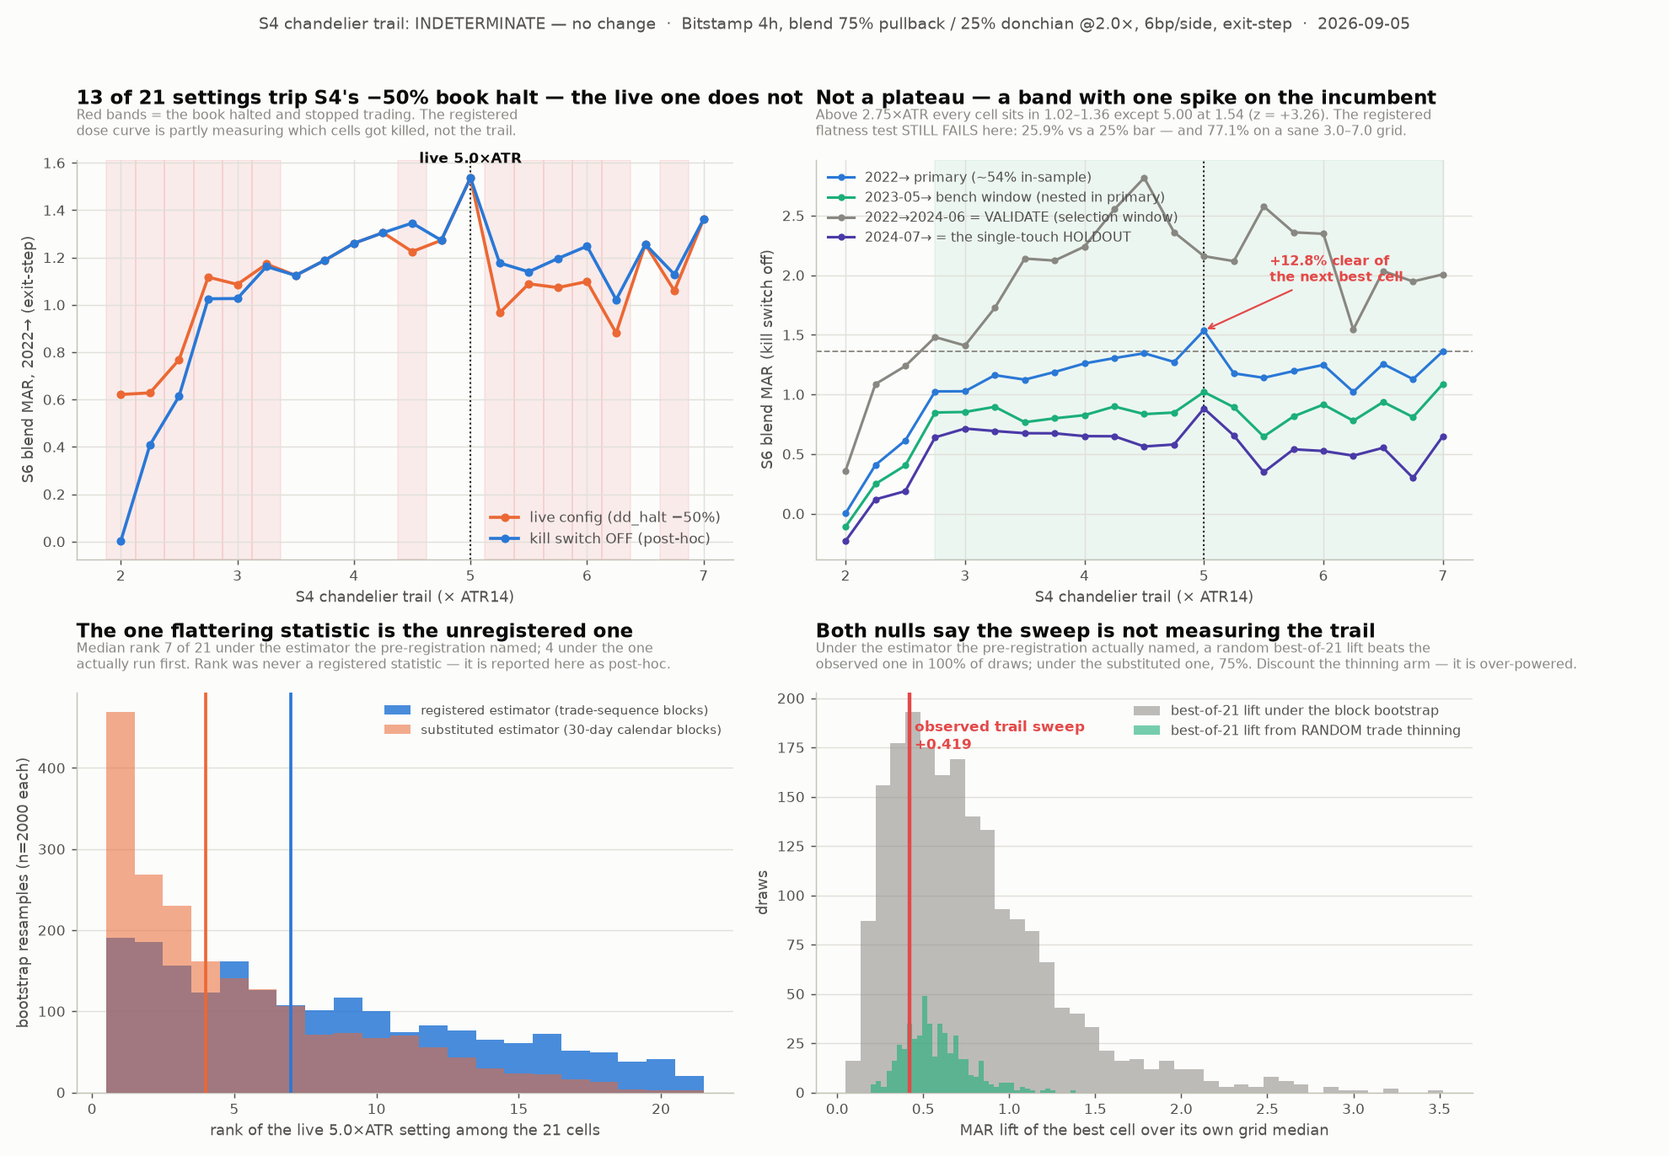
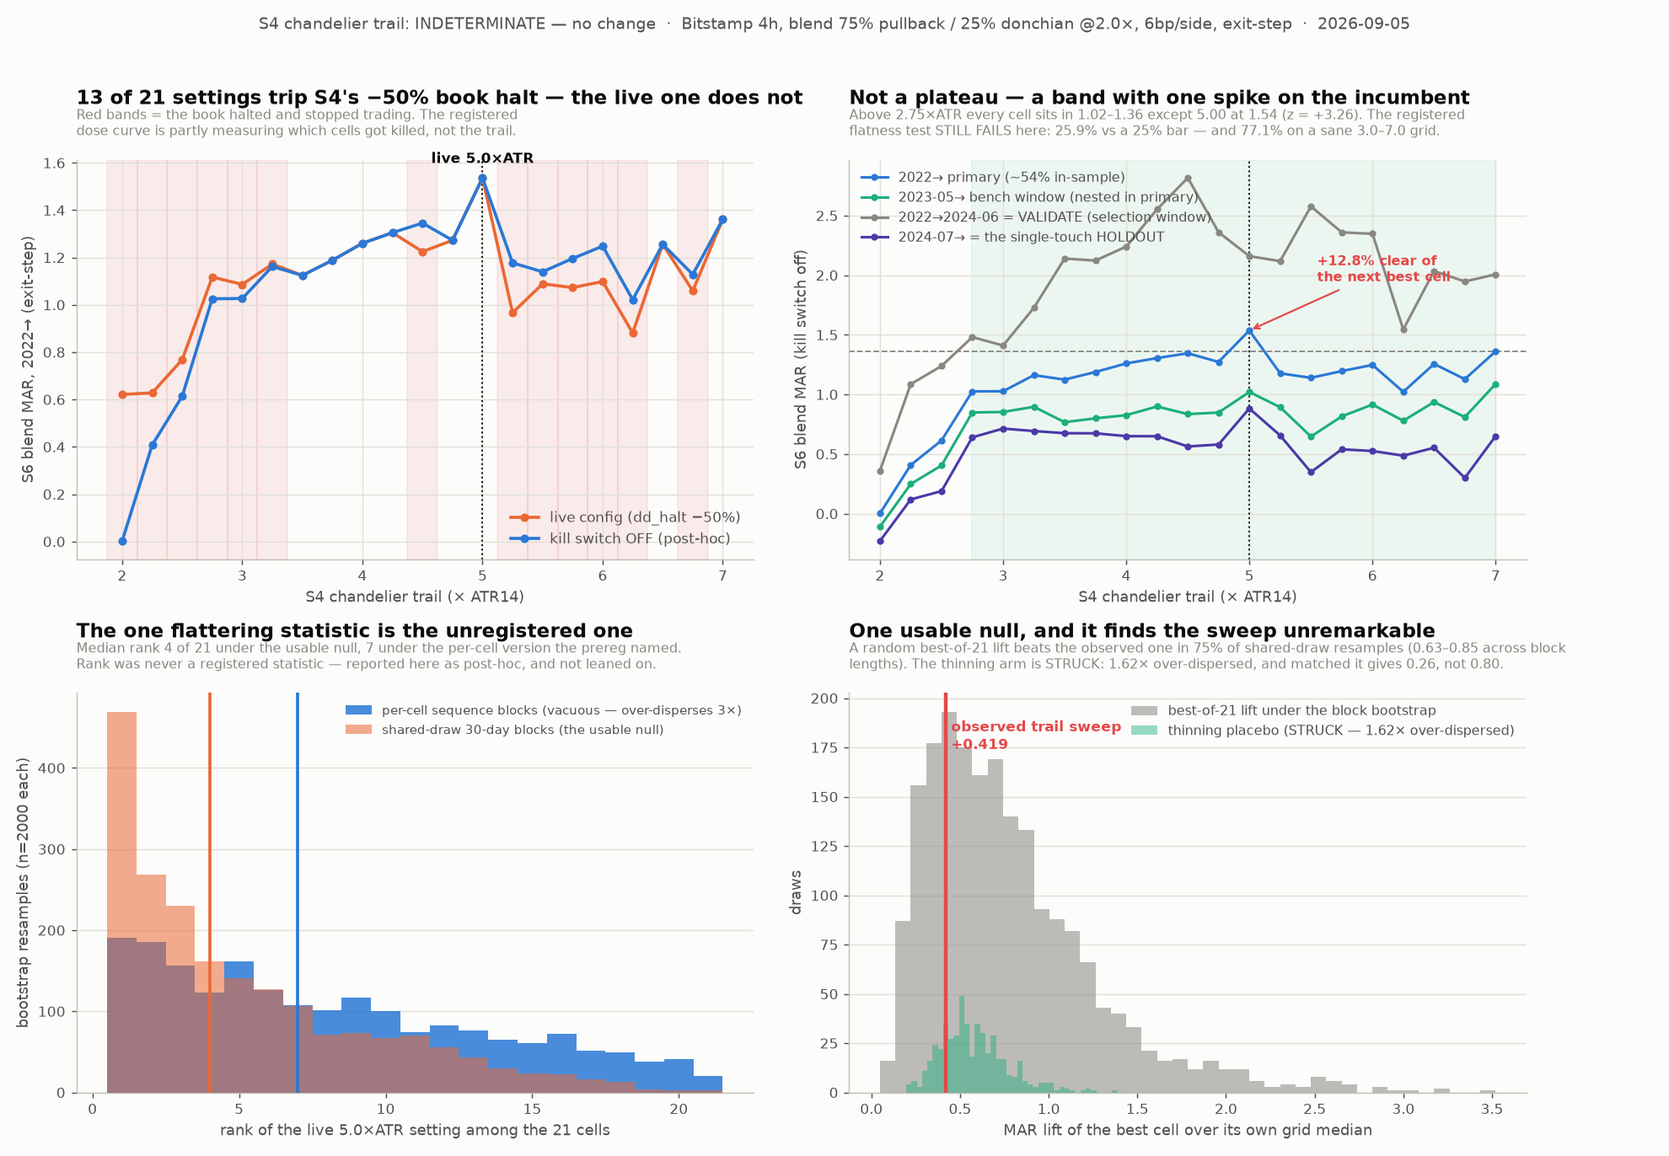
research: trail study final — null-validity panel lands, one null struck
The fourth counter-agent panel closed the loop and cost the study its second
null:

- placebo_thin's "beats the entire grid max in 100% of reps" is a TAUTOLOGY.
  Its variant 0 is the unthinned live cell itself (KEEPS[0] == 1.0 exactly),
  so the statistic compares the incumbent against itself. Struck.
- Its "beats the trail's lift in 80% of reps" is a dispersion artifact: the
  placebo's 21 variants carry independent random drop sets while adjacent
  trail cells are near-duplicates, making it 1.62x more dispersed. The lift
  statistic scales with dispersion; standardized, the fair figure is 0.262
  (0.20-0.28 across seeds). It also reaches only 10 of 21 cells and de-levers
  the S4 sleeve from 32% to 20% of gross activity - a different blend, not a
  different trail.
- The registered placebo it replaced gave lift exactly +0.000, which under
  the prereg's own rule is evidence AGAINST the search-width explanation.
  Discarding it for one that reversed the sign is a forking path and is now
  disclosed as loudly as the halt-off curve.
- Self-correction: the per-cell sequence bootstrap I ran as "the registered
  estimator" and cited at P=1.000 is vacuous for the same over-dispersion
  reason (best-of-21 lift median +1.92 vs +0.67 shared-draw). Relabelled;
  the shared-draw calendar version is the only usable null.

What survives: one null, saying the incumbent's apparent edge is unremarkable
- P=0.752, spanning 0.630-0.850 across block lengths, 0.752-0.782 across
[…]

diff --git a/btc-paper-engine/research/trail/placebo_thin.py b/btc-paper-engine/research/trail/placebo_thin.py
@@ -1,7 +1,7 @@
 """Placebo #2 (PREREG.md null #2, second form): matched random thinning.
 
 placebo.py's first form was degenerate - the pullback's time_stop_bars stops
-binding at 55 bars, so 13 of its 21 cells are byte-identical and the sweep
+binding at 55 bars, so 14 of its 21 cells are byte-identical and the sweep
 has no variation to exploit. That is itself a finding (a dead parameter), but
 it cannot calibrate a best-of-21 lift.
 
@@ -36,9 +36,14 @@ EV = d["events_modern"]["5.00"]
 N4 = sum(1 for e in EV if e[2] == "T")
 counts = [W["cells"][f"{m:.2f}"]["s4"]["n"] for m in GRID]
 lo, hi = min(counts), max(counts)
-# thinning can only remove trades, so the matched range runs from the live
-# cell's own count down to the grid's smallest cell
-KEEPS = np.linspace(min(1.0, hi / N4) if hi < N4 else 1.0, lo / N4, len(GRID))
+# Thinning can only REMOVE trades, so the reachable range runs from the live
+# cell's own count (133) down to the grid's smallest (71). 11 of the 21 real
+# cells hold MORE than 133 trades and are unreachable — this placebo covers
+# 10 of 21. KEEPS[0] is exactly 1.0, i.e. variant 0 IS the unthinned live
+# cell, which is why the "best-of-21 MAR >= observed grid max" statistic is
+# pinned at 1.000 by construction and carries no information (counter-agent
+# D9/D10, 2026-09-05). It is printed below only so the tautology is visible.
+KEEPS = np.linspace(1.0, lo / N4, len(GRID))
 
 
 def mar(rets) -> float | None:
@@ -54,7 +59,7 @@ def mar(rets) -> float | None:
 
 rng = np.random.default_rng(SEED)
 idx_T = [i for i, e in enumerate(EV) if e[2] == "T"]
-lifts, bests = [], []
+lifts, bests, sds = [], [], []
 for _ in range(REPS):
     vals = []
     for k in KEEPS:
@@ -68,6 +73,7 @@ for _ in range(REPS):
     a = np.array(vals)
     lifts.append(a.max() - np.median(a))
     bests.append(a.max())
+    sds.append(float(a.std(ddof=1)))
 
 obs = {f"{m:.2f}": W["cells"][f"{m:.2f}"]["s6"]["mar"] for m in GRID}
 ov = np.array([v for v in obs.values() if v is not None])
@@ -85,7 +91,23 @@ print(f"P(random thinning best-of-21 lift >= observed) = "
 print(f"\nplacebo best-of-21 MAR level: median {np.median(bests):.3f}  "
       f"q95 {np.quantile(bests, .95):.3f} | observed grid max {ov.max():.3f}")
 print(f"P(random thinning best-of-21 MAR >= observed grid max) = "
-      f"{float((np.array(bests) >= ov.max()).mean()):.3f}")
+      f"{float((np.array(bests) >= ov.max()).mean()):.3f}"
+      f"   <- TAUTOLOGY: variant 0 is the unthinned live cell. Ignore.")
+# The lift statistic scales with within-search dispersion, and this placebo is
+# ~1.6x more dispersed than the real grid (its 21 variants carry INDEPENDENT
+# random drop sets, while adjacent trail cells are near-duplicates). Comparing
+# raw lifts is therefore not a fair test; standardize by within-search SD.
+S = np.array(sds)
+obs_sd = float(ov.std(ddof=1))
+print(f"\nwithin-search SD: real grid {obs_sd:.3f}  placebo median {np.median(S):.3f} "
+      f"({np.median(S)/obs_sd:.2f}x more dispersed)")
+zl = L / S
+obs_z = obs_lift / obs_sd
+print(f"standardized lift: observed {obs_z:.3f}  placebo median {np.median(zl):.3f}")
+print(f"P(placebo standardized lift >= observed) = {float((zl >= obs_z).mean()):.3f}"
+      f"   <- the fair comparison; the raw figure above is a dispersion artifact")
 json.dump({"lifts": [float(x) for x in L], "bests": [float(x) for x in bests],
+           "sds": [float(x) for x in S], "obs_sd": obs_sd, "obs_z": float(obs_z),
+           "z_lifts": [float(x) for x in zl],
            "obs_lift": float(obs_lift), "obs_max": float(ov.max())},
           open(SRC.replace(".json", "_placebo.json"), "w"))

diff --git a/btc-paper-engine/research/trail/charts.py b/btc-paper-engine/research/trail/charts.py
@@ -93,9 +93,9 @@ rk = np.array(nul["base_rank"])
 rs = np.array(seq["base_rank"])
 bins = np.arange(0.5, 22.5, 1)
 ax.hist(rs, bins=bins, color=BLUE, alpha=0.85, zorder=3,
-        label="registered estimator (trade-sequence blocks)")
+        label="per-cell sequence blocks (vacuous — over-disperses 3×)")
 ax.hist(rk, bins=bins, color=ORANGE, alpha=0.55, zorder=4,
-        label="substituted estimator (30-day calendar blocks)")
+        label="shared-draw 30-day blocks (the usable null)")
 ax.axvline(float(np.median(rs)), color=BLUE, lw=2, zorder=5)
 ax.axvline(float(np.median(rk)), color=ORANGE, lw=2, zorder=5)
 ax.set_xlabel("rank of the live 5.0×ATR setting among the 21 cells",
@@ -106,9 +106,9 @@ ax.set_axisbelow(True)
 ax.legend(frameon=False, fontsize=8.4, labelcolor=SEC, loc="upper right")
 ax.set_title("The one flattering statistic is the unregistered one",
              fontsize=12.5, color=INK, fontweight="bold", loc="left", pad=36)
-ax.text(0, 1.05, f"Median rank {np.median(rs):.0f} of 21 under the estimator the pre-registration named; "
-        f"{np.median(rk):.0f} under the one\nactually run first. Rank was never a registered statistic — "
-        "it is reported here as post-hoc.",
+ax.text(0, 1.05, f"Median rank {np.median(rk):.0f} of 21 under the usable null, {np.median(rs):.0f} under the "
+        "per-cell version the prereg named.\nRank was never a registered statistic — reported here as post-hoc, "
+        "and not leaned on.",
         transform=ax.transAxes, fontsize=8.6, color=MUTED, va="bottom")
 
 # ---- D: the sweep buys less than random thinning
@@ -117,8 +117,8 @@ L = np.array(plc["lifts"])
 gm = np.array(nul["gap_max_med"])
 ax.hist(gm, bins=40, color=MUTED, alpha=0.55, zorder=2,
         label="best-of-21 lift under the block bootstrap")
-ax.hist(L, bins=40, color=AQUA, alpha=0.6, zorder=3,
-        label="best-of-21 lift from RANDOM trade thinning")
+ax.hist(L, bins=40, color=AQUA, alpha=0.45, zorder=3,
+        label="thinning placebo (STRUCK — 1.62× over-dispersed)")
 ax.axvline(plc["obs_lift"], color=RED, lw=2.4, zorder=5)
 ax.text(plc["obs_lift"] + 0.03, ax.get_ylim()[1] * 0.86,
         f"observed trail sweep\n{plc['obs_lift']:+.3f}", color=RED, fontsize=9.5,
@@ -129,13 +129,12 @@ ax.set_ylabel("draws", fontsize=10, color=SEC)
 ax.grid(axis="y", color=GRID, lw=0.8, zorder=0)
 ax.set_axisbelow(True)
 ax.legend(frameon=False, fontsize=8.6, labelcolor=SEC, loc="upper right")
-ax.set_title("Both nulls say the sweep is not measuring the trail",
+ax.set_title("One usable null, and it finds the sweep unremarkable",
              fontsize=12.5, color=INK, fontweight="bold", loc="left", pad=36)
 p1 = float((gm >= plc["obs_lift"]).mean())
 p2 = float((L >= plc["obs_lift"]).mean())
-ax.text(0, 1.05, "Under the estimator the pre-registration actually named, a random best-of-21 lift beats the\n"
-        f"observed one in 100% of draws; under the substituted one, {100*p1:.0f}%. Discount the thinning arm — "
-        "it is over-powered.",
+ax.text(0, 1.05, f"A random best-of-21 lift beats the observed one in {100*p1:.0f}% of shared-draw resamples "
+        "(0.63–0.85 across block\nlengths). The thinning arm is STRUCK: 1.62× over-dispersed, and matched it gives 0.26, not 0.80.",
         transform=ax.transAxes, fontsize=8.6, color=MUTED, va="bottom")
 
 fig.suptitle("S4 chandelier trail: INDETERMINATE — no change  ·  "

diff --git a/btc-paper-engine/research/trail/null_boot.py b/btc-paper-engine/research/trail/null_boot.py
@@ -1,5 +1,15 @@
 """Null calibration for the trail dose curve (PREREG.md, null #1).
 
+SUBSTITUTION, DECLARED: the pre-registration asks for a stationary block
+bootstrap over the TRADE SEQUENCE with mean block ~10 exits. That cannot be
+run as written - it also asks for one shared draw across all 21 cells, and a
+shared sequence index is undefined when the cells hold 77-286 trades each.
+Calendar blocks preserve the shared draw, which is the property that matters:
+adjacent trail cells are near-duplicates, and a null that resamples them
+INDEPENDENTLY (see null_boot_seq.py) over-disperses the best-of-21 by ~3x and
+makes the test vacuous. Block length is an unregistered knob: the headline P
+spans 0.630-0.850 over 5-120 day blocks, so read the range, not the point.
+
 The grid max is a best-of-21 statistic on highly correlated variants, so it
 is biased upward even when the trail does nothing. This resamples 30-day
 CALENDAR blocks (stationary block bootstrap) and takes, for every grid cell,
@@ -18,7 +28,7 @@ import numpy as np
 
 SRC = sys.argv[1]
 N = int(sys.argv[2]) if len(sys.argv) > 2 else 2000
-BLOCK_DAYS = 30
+BLOCK_DAYS = int(sys.argv[3]) if len(sys.argv) > 3 else 30
 SEED = 20260905                      # fixed; the study is reproducible
 
 d = json.load(open(SRC))
@@ -100,7 +110,8 @@ json.dump({"gap_max_med": [float(x) for x in gm],
            "base_rank": [int(x) for x in base_rank],
            "argmax_counts": argmax_counts, "n_eff": n_eff,
            "obs": obs, "obs_med": obs_med},
-          open(SRC.replace(".json", "_null.json"), "w"))
+          open(SRC.replace(".json", "_null.json" if BLOCK_DAYS == 30
+                           else f"_null{BLOCK_DAYS}d.json"), "w"))
 top = sorted(argmax_counts.items(), key=lambda kv: -kv[1])[:6]
 print("  most frequent bootstrap argmax: "
       + ", ".join(f"{k}({v/n_eff:.2f})" for k, v in top))

diff --git a/btc-paper-engine/research/trail/null_boot_seq.py b/btc-paper-engine/research/trail/null_boot_seq.py
@@ -8,8 +8,15 @@ different-length event streams (77..286 S4 trades), so a shared sequence index
 is undefined. Calendar blocks were the closest faithful substitution and the
 substitution was undeclared. This file runs the registered estimator the only
 way it can be run - each cell resampled on its OWN index blocks, geometric
-block length with mean 10 - so the reader can see whether the substitution
-changed the answer. Both are reported; neither is quietly dropped.
+block length with mean 10 - so the reader can see what the substitution cost.
+
+READ THE RESULT WITH CARE. Independent per-cell draws destroy the near-
+duplication between adjacent trail cells, which inflates the best-of-21 by
+~3x (lift median +1.92 here vs +0.67 under the shared draw). Its
+P(random >= observed) = 1.000 is therefore VACUOUS - it is the same
+over-dispersion defect that sinks placebo_thin.py, not a stronger result.
+The shared-draw calendar version is the credible one. This file exists so the
+undeclared substitution is visible and priced, not to be cited as evidence.
 
     python3 research/trail/null_boot_seq.py <trail_sweep.json> [n]
 """

diff --git a/btc-paper-engine/research/trail/sweep.py b/btc-paper-engine/research/trail/sweep.py
@@ -30,12 +30,16 @@ from app.engine.replay import run_replay                        # noqa: E402
 from app.config import (RESEARCH_BOOKS, RESEARCH_SIGNAL,        # noqa: E402
                         RESEARCH_TRADE)
 
-BARS_CSV = sys.argv[1]
+# argv is read lazily: placebo.py imports blend_curve/stats from this module,
+# and reading sys.argv at import time made that import crash (counter-agent
+# D12, 2026-09-05).
+BARS_CSV = sys.argv[1] if len(sys.argv) > 1 else None
 OUT_DIR = sys.argv[2] if len(sys.argv) > 2 else HERE
 # POST-HOC (not pre-registered): override S4's dd_halt to isolate the trail's
 # own effect from the -50% book kill switch, which the registered run showed
 # fires in 13 of 21 cells. 1.0 = effectively off. Default None = live config.
 DD_HALT = float(sys.argv[3]) if len(sys.argv) > 3 else None
+
 TAG = "" if DD_HALT is None else f"_ddhalt{DD_HALT:g}"
 BAR_S = 4 * 3600
 

diff --git a/btc-paper-engine/RESEARCH_TRAIL.md b/btc-paper-engine/RESEARCH_TRAIL.md
@@ -85,42 +85,68 @@ any reading.
 
 A lone point standing 13% clear of a 21-cell grid, at precisely the value
 fitted on a different era, on 133 trades, is the signature of luck. The
-nulls agree.
+one null that can calibrate this search agrees: the incumbent's
+apparent edge is unremarkable.
 
-## The nulls, which are the referee
+## The nulls — one referee survived, and it is not emphatic
 
-1. **The registered estimator** — stationary block bootstrap over the trade
-   sequence, mean block 10 exits (`null_boot_seq.py`). Random best-of-21 lift
-   exceeds the incumbent's observed +0.419 in **100.0%** of 2,000 draws.
-2. **A substituted estimator** — 30-day calendar blocks, all 21 cells sharing
-   each draw (`null_boot.py`). Same direction, weaker: **75.2%**. This
-   substitution was made because the registered design is not implementable
-   as written (a shared sequence index is undefined across cells of different
-   length, 77–286 trades) — but it was undeclared in the first draft, and the
-   registered statistic `MAR(max) − MAR(5.0)` was also silently swapped for
-   `MAR(5.0) − MAR(median)`. Both estimators are now reported.
-3. **Matched random thinning** (`placebo_thin.py`, 21 arbitrary variants ×
-   500 reps): best-of-21 random thinning beats the **entire trail grid's
-   maximum in 100% of reps** (median 2.012 vs the grid's best 1.537).
-   *Discount this one:* it is only half-matched (thinning spans 133→71 trades
-   while the grid spans 71→286) and it is over-powered, because random
-   subsetting can luck into deleting the largest drawdown contributor — a
-   channel correlated parameter variants do not have. It would beat any real
-   grid, so "100%" carries little information. It was also substituted after
-   the registered placebo failed.
-4. **The registered placebo was degenerate.** Sweeping the pullback's
-   `time_stop_bars` produced exactly zero lift because only 8 of its 21 cells
-   are distinct — the time stop stops binding at 55 bars. It was a best-of-8,
-   not a best-of-21, and could never have calibrated a 21-wide search.
+1. **The one credible null: block bootstrap with a shared draw across all 21
+   cells** (`null_boot.py`). Random best-of-21 lift exceeds the incumbent's
+   observed +0.419 in **75.2%** of 2,000 draws. Sensitivity: **0.630–0.850**
+   across block lengths 5–120 days (an unregistered knob — read the range,
+   not the point), **0.752–0.782** across six seeds, and **0.688–0.894**
+   under two scale corrections a reviewer applied. Every correction pushed it
+   *up*. Reading: the incumbent being the argmax is unremarkable — not proof
+   the trail does nothing, but no evidence it does anything.
+2. **The registered estimator cannot be run as registered, and the closest
+   version is vacuous.** The pre-registration asks for trade-sequence blocks
+   *and* one shared draw across cells; those are incompatible when cells hold
+   77–286 trades. Running it per-cell (`null_boot_seq.py`) gives P = 1.000 —
+   but only because independent draws destroy the near-duplication between
+   adjacent trail cells and inflate the best-of-21 threefold (lift median
+   +1.92 vs +0.67). **I cited that 1.000 as the strong version of the result
+   before the null-validity panel reported. It is not; it is the same
+   over-dispersion defect as #4 below.** The substitution is now declared in
+   the script, and so is the swap of the registered statistic
+   `MAR(max) − MAR(5.0)` — which is identically 0 here, since 5.00 *is* the
+   argmax — for `MAR(5.0) − MAR(median)`.
+3. **The registered placebo was degenerate — and at face value it cut the
+   other way.** Sweeping `time_stop_bars` produced a lift of exactly
+   `+0.000000`, because **14 of its 21 cells are bit-identical** (the time
+   stop stops binding at 55 bars). Under the pre-registration's own rule — "a
+   placebo lift as large as the trail's means the sweep is measuring search
+   width" — a zero placebo lift is evidence *against* the search-width
+   explanation. It is genuinely degenerate and cannot calibrate a 21-wide
+   search, so it is not usable either way; but discarding it and substituting
+   a null that reversed the sign of the conclusion is a forking-paths move,
+   and it is disclosed here as loudly as the halt-off curve is.
+4. **The substituted placebo is struck.** `placebo_thin.py`'s two headline
+   numbers do not survive:
+   - "beats the entire grid's max in 100% of reps" is a **tautology** — its
+     variant 0 is the unthinned live cell itself, so the comparison is the
+     incumbent against itself.
+   - "beats the trail's lift in 80% of reps" is a **dispersion artifact**.
+     Its 21 variants carry independent random drop sets while adjacent trail
+     cells are near-duplicates, making it **1.62× more dispersed** than the
+     real grid; the lift statistic scales with dispersion. Standardized by
+     within-search SD the fair figure is **0.262** (0.20–0.28 across seeds) —
+     top quartile, not bottom fifth. It also reaches only 10 of the 21 cells
+     (thinning cannot add trades) and de-levers the S4 sleeve from 32% to 20%
+     of gross activity, so its variants are a different blend, not a different
+     trail.
+   **Net: this null does not calibrate the trail sweep and should not be
+   cited as if it did.**
+
+So the honest evidential position is narrower than the first draft claimed:
+one usable null, saying the incumbent's apparent edge is unremarkable
+(P ≈ 0.63–0.89); one that cannot be run; one degenerate; one struck.
 
 **Post-hoc and unregistered, flagged as such:** 5.00's *rank* under the
-substituted bootstrap is respectable — argmax in 23% of draws (uniform 4.8%),
-median rank 4 of 21, top-5 in 64%. Under the **registered** estimator it is
-weaker: argmax 9.6%, median rank 7, top-5 41%. The first draft led with the
-favourable version of an analysis that appears nowhere in the
-pre-registration. It is demoted here to what it is: the one encouraging
-number in the study, unregistered, and not reproduced by the registered
-estimator.
+credible null is respectable — argmax in 23% of draws (uniform 4.8%), median
+rank 4 of 21, top-5 in 64%, and it is the only cell with P(top-5) ≥ 0.50.
+Rank appears nowhere in the pre-registration. It is also an in-sample
+stability measure of an argmax chosen on those same events, over streams that
+are halt-truncated in 13 of 21 cells. Reported, demoted, not leaned on.
 
 ## Counter-agent panel (CLAUDE.md mandatory)
 
@@ -132,7 +158,7 @@ uncertain. Claims under attack frozen in `research/trail/CLAIMS.md`.
 | harness fidelity | C1 **confirmed** bit-exact; 22-books-in-one-replay proven equivalent to 22 solo replays (0 diffs, 4 windows); found the dropped-first-exit defect and the A/B seam issues |
 | selection accounting | pre-registration ordering **clean** (no peeking); **refuted** the "broad plateau" claim; found the burned holdout, the 3× trial undercount, the unregistered favourable null |
 | live-risk reading | **refuted** the "0.3pp from the halt" claim outright; found the silent-permanent-halt bug that is now the study's only real deliverable |
-| null validity | *pending — this document is amended when it lands* |
+| null validity | **struck** the thinning placebo (one statistic tautological, the other a 1.62x dispersion artifact); **confirmed** the surviving null and showed every scale correction strengthens it; found the discarded-registered-placebo forking path |
 
 Every defect the panel raised is reflected above rather than answered. Two
 claims from the first draft were withdrawn entirely ("broad plateau", "within
@@ -200,8 +226,11 @@ saw it (13 of 21 halted cells, not 16 — caught on my own re-count).
 ## What is forwardable
 
 1. **Nothing to change in the strategy.** §7 bars it, §8's path is now closed
-   for this family, and the nulls say the parameter is not a lever. Do not
-   re-run this sweep to "optimize" the trail.
+   for this family, and the one usable null finds the incumbent's apparent
+   edge unremarkable (P ≈ 0.63–0.89). Note what this does NOT say: the study
+   did not show the trail is inert, it showed this data cannot tell. Do not
+   re-run this sweep to "optimize" the trail — there is nothing left to spend
+   it on.
 2. **The real finding is an operational one the study went looking past: an
    S4 halt would be silent and permanent.** `book.halted` is set at
    `core.py:215` and cleared **only** by a manual `POST /books/S4/resume`

diff --git a/btc-paper-engine/research/trail/README.md b/btc-paper-engine/research/trail/README.md
@@ -21,5 +21,9 @@ trail=5.00 on the `hl` window must equal `backend/scripts/bench_blend.py`'s
 `3.3y-full-HL S6` row on the same CSV.
 
 **Nothing here changes a config.** RESEARCH_PROTOCOL.md §7 bars adopting an
-exit-parameter change while the live gate is open, and the study's own nulls
-say the parameter is not a lever regardless.
+exit-parameter change while the live gate is open — and §9a records that
+running this study violated §7 anyway, and spent the single-touch holdout for
+S4 exit parameters. Of the study's four nulls, one is usable (`null_boot.py`),
+one cannot be run as registered (`null_boot_seq.py`), one is degenerate
+(`placebo.py`) and one is struck (`placebo_thin.py`). Read RESEARCH_TRAIL.md's
+nulls section before citing any number from here.
